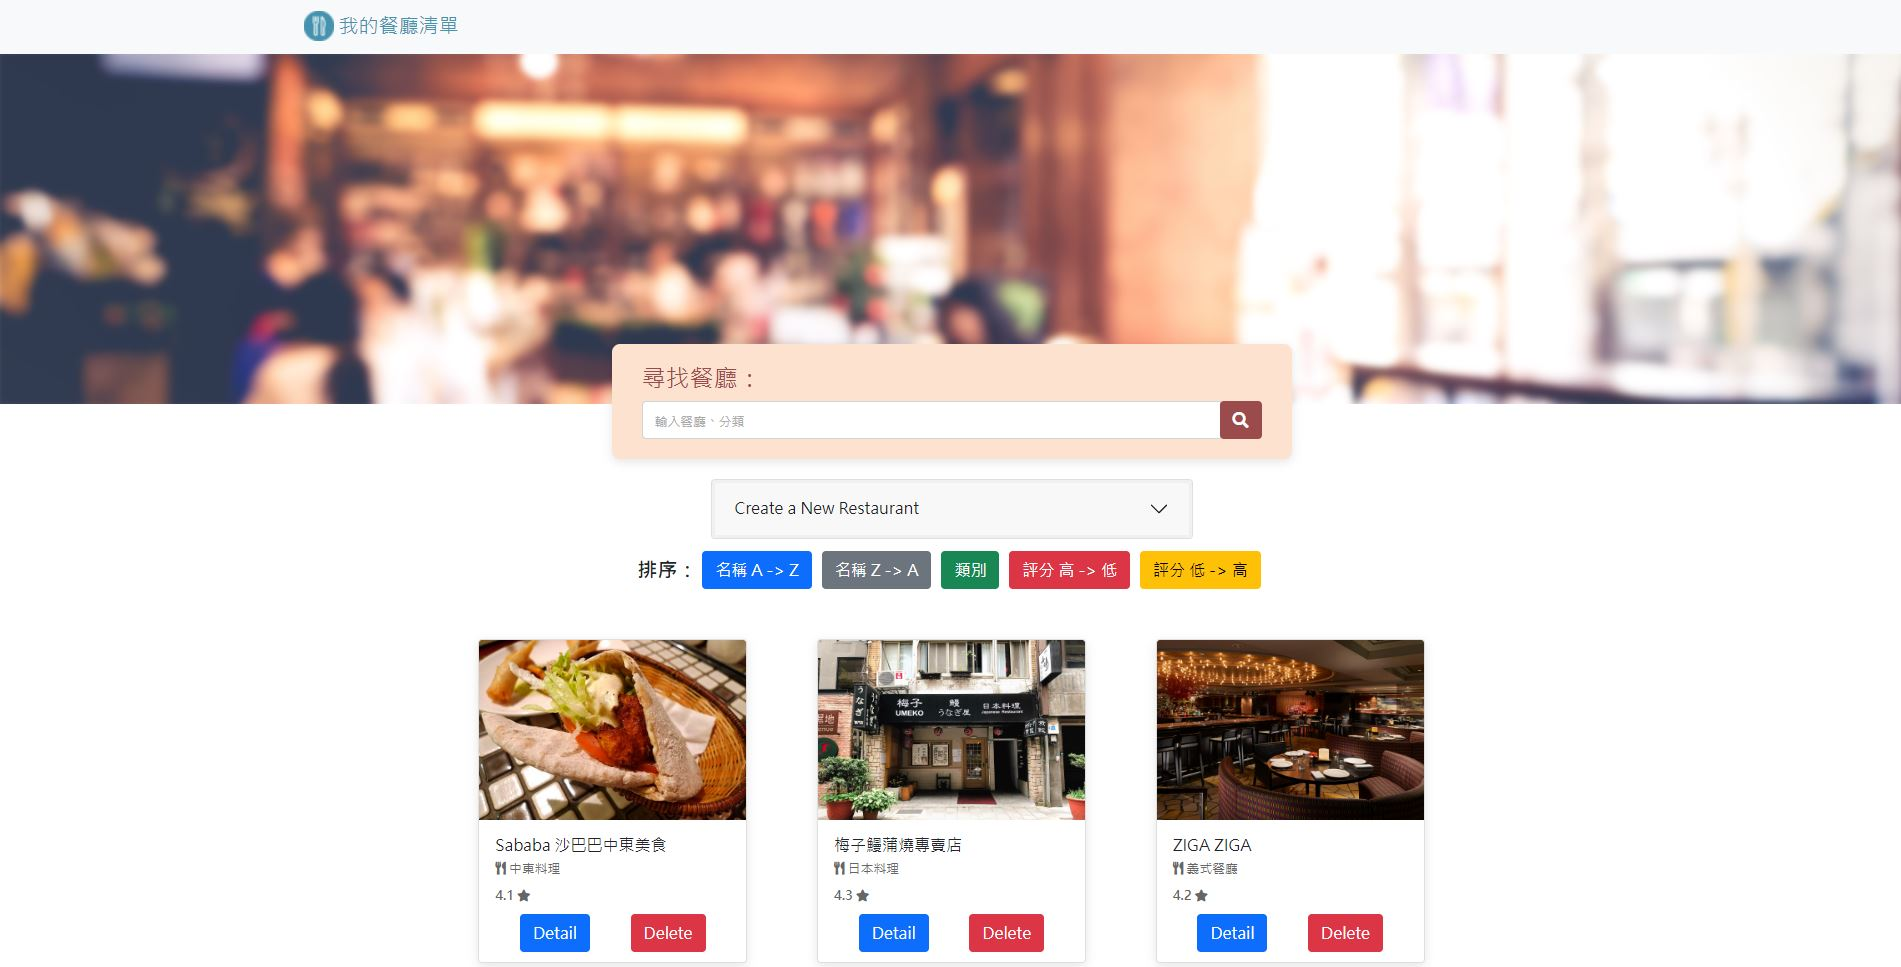
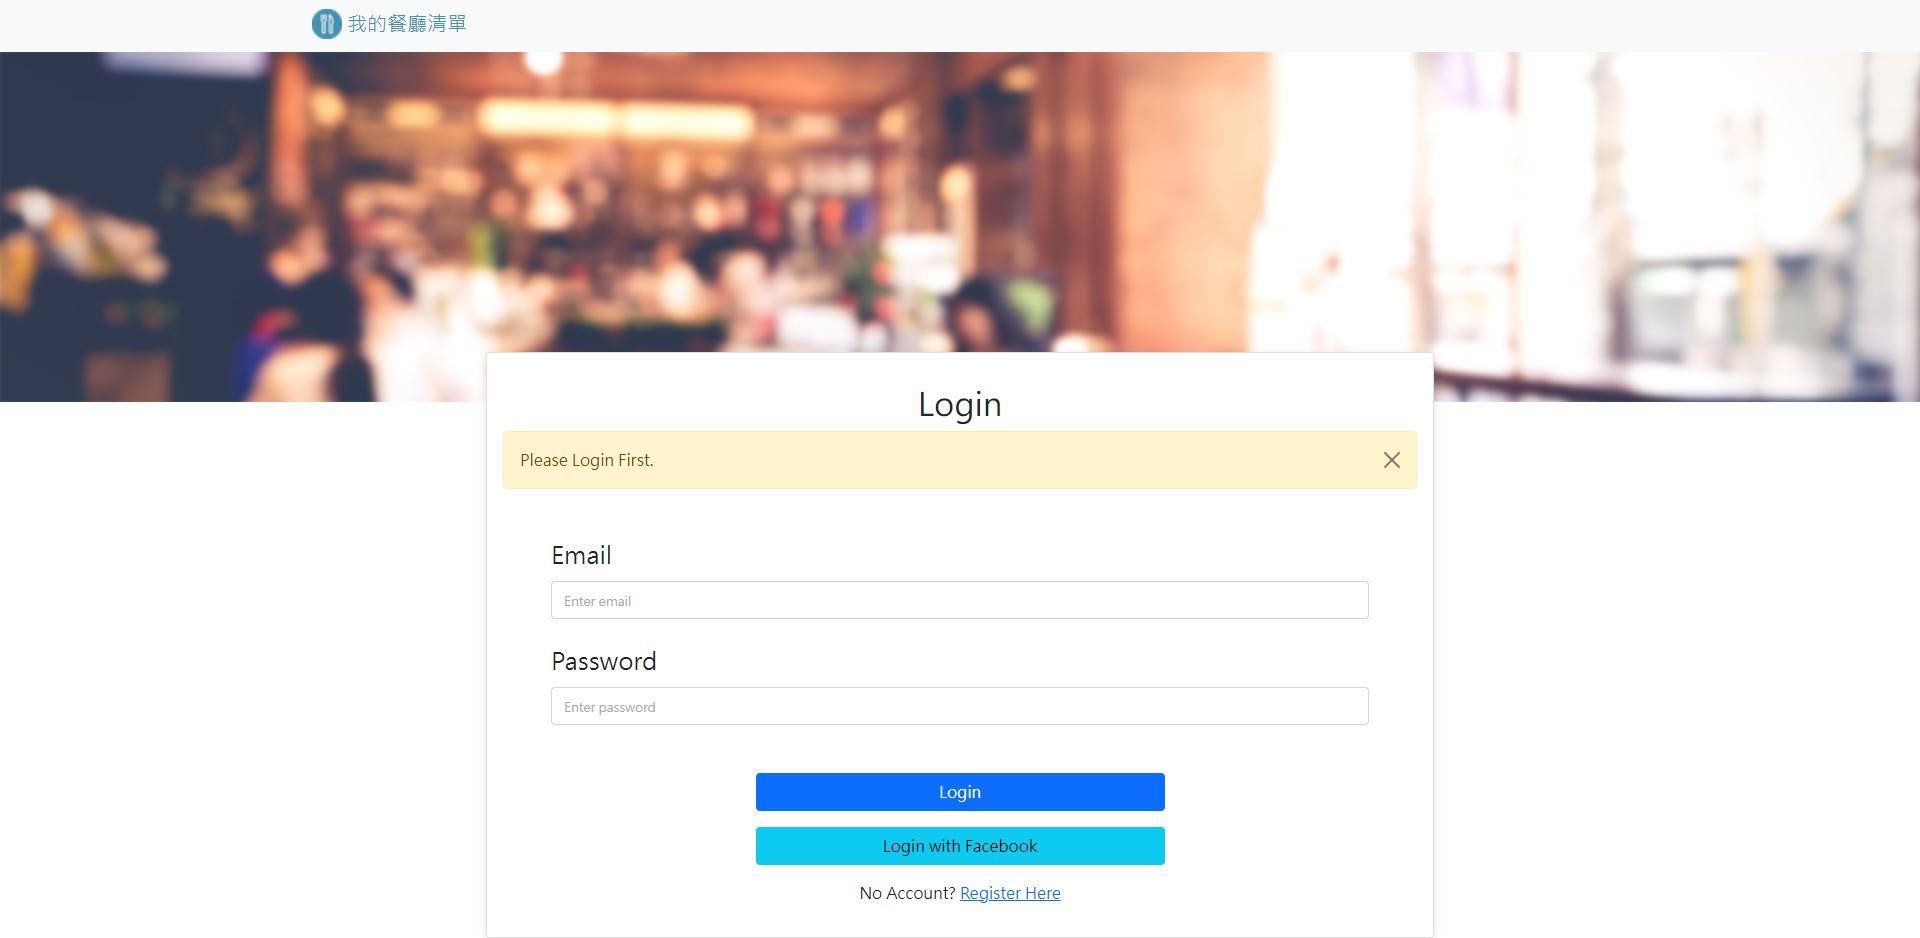
modify readme.md

diff --git a/readme.md b/readme.md
@@ -1,38 +1,40 @@
-# Project AC-Exercise-S2-3-A8-RestaurentList-with-CRUD(rebuild-router)
-Alpha camp Semester2-3 A8 Restaurent List with CRUD rebuild-router)
+# Project AC-Exercise-S3-A1-Restaurent-List
+Alpha camp Semester3 A1 Restaurent List
 
-![alt text](https://github.com/yc62897441/AC-Exercise-S2-3-A8-RestaurentList-with-CRUD-rebuild-router-/blob/main/images/sample001.jpg?raw=true)
+![alt text](https://github.com/yc62897441/AC-Exercise-S3-full-A1-Restaurant-List/blob/main/images/sample001.jpg?raw=true)
 
-![alt text](https://github.com/yc62897441/AC-Exercise-S2-3-A8-RestaurentList-with-CRUD-rebuild-router-/blob/main/images/sample002.jpg?raw=true)
+![alt text](https://github.com/yc62897441/AC-Exercise-S3-full-A1-Restaurant-List/blob/main/images/sample002.jpg?raw=true)
 
-![alt text](https://github.com/yc62897441/AC-Exercise-S2-3-A8-RestaurentList-with-CRUD-rebuild-router-/blob/main/images/sample003.jpg?raw=true)
+![alt text](https://github.com/yc62897441/AC-Exercise-S3-full-A1-Restaurant-List/blob/main/images/sample003.jpg?raw=true)
+
+![alt text](https://github.com/yc62897441/AC-Exercise-S3-full-A1-Restaurant-List/blob/main/images/sample004.jpg?raw=true)
 
 ## Environment & Prerequisites
 
-nvm: 1.1.9
-
-@popperjs/core: ^2.11.4
-
-body-parser: ^1.19.2
-
-express: ^4.17.3
-
-express-handlebars: ^6.0.3
-
-
-method-override: ^3.0.0
-
-mongoose: ^6.2.9
+"nvm": "^1.1.9"
+"@popperjs/core": "^2.11.4",
+"bcrypt": "^5.0.1",
+"body-parser": "^1.19.2",
+"connect-flash": "^0.1.1",
+"dotenv": "^16.0.0",
+"express": "^4.17.3",
+"express-handlebars": "^6.0.3",
+"express-session": "^1.17.2",
+"method-override": "^3.0.0",
+"mongoose": "^6.2.9",
+"passport": "^0.5.2",
+"passport-facebook": "^3.0.0",
+"passport-local": "^1.0.0"
 
 ## Installing and Execution
 1. Clone projet to your localhost
 ```
-git clone https://github.com/yc62897441/AC-Exercise-S2-3-A8-RestaurentList-with-CRUD-rebuild-router-.git
+git clone https://github.com/yc62897441/AC-Exercise-S3-full-A1-Restaurant-List.git
 ```
 
-2. change directory to project file "AC-Exercise-S2-3-A8-RestaurentList-with-CRUD-rebuild-router-"
+2. change directory to project file "AC-Exercise-S3-full-A1-Restaurant-List"
 ```
-cd "AC-Exercise-S2-3-A8-RestaurentList-with-CRUD-rebuild-router-"
+cd "AC-Exercise-S3-full-A1-Restaurant-List"
 ```
 
 3. install npm module
@@ -40,23 +42,12 @@ cd "AC-Exercise-S2-3-A8-RestaurentList-with-CRUD-rebuild-router-"
 npm install
 ```
 
-4. change directory to restaurant seeds file "AC-Exercise-S2-3-A8-RestaurentList-with-CRUD-rebuild-router-/models/seeds"   
+4. generate seeds 
 ```
-cd models/seeds
-```
-
-5. generate restaurant seeds(restaurant list) 
-```
-node restaurantSeeder.js
+npm run seed
 ```
 
-6. back directory to project file "AC-Exercise-S2-3-A8-RestaurentList-with-CRUD-rebuild-router-"   
-```
-cd ..
-cd ..
-```
-
-7. Run project
+5. Run project
 ```
 npm run dev
 ```
@@ -65,16 +56,18 @@ npm run dev
 
 
 ## Features
-1. List a restaurants list
+1. With Login, Logout and Register system.
 
-2. Use "Search bar" to search restaurants
+2. User can manage his/her own restaurants list.
 
-3. Click button "Detail" to link to single restaurant page for more information
+3. Use "Search bar" to search restaurants
 
-4. Click button "Delete" to remove single restaurant data
+4. Click button "Detail" to link to single restaurant page for more information
 
-5. Click button "Create a New Restaurant", input restaurant data and click button "Create" to create a new restaurant
+5. Click button "Delete" to remove single restaurant data
 
-6. Click button "Update this Restaurant Information", input restaurant data and click button "Update" to update restaurant data
+6. Click button "Create a New Restaurant", input restaurant data and click button "Create" to create a new restaurant
 
-7. Click "sorted button group" to sort restaurant
+7. Click button "Update this Restaurant Information", input restaurant data and click button "Update" to update restaurant data
+
+8. Click "sorted button group" to sort restaurant
